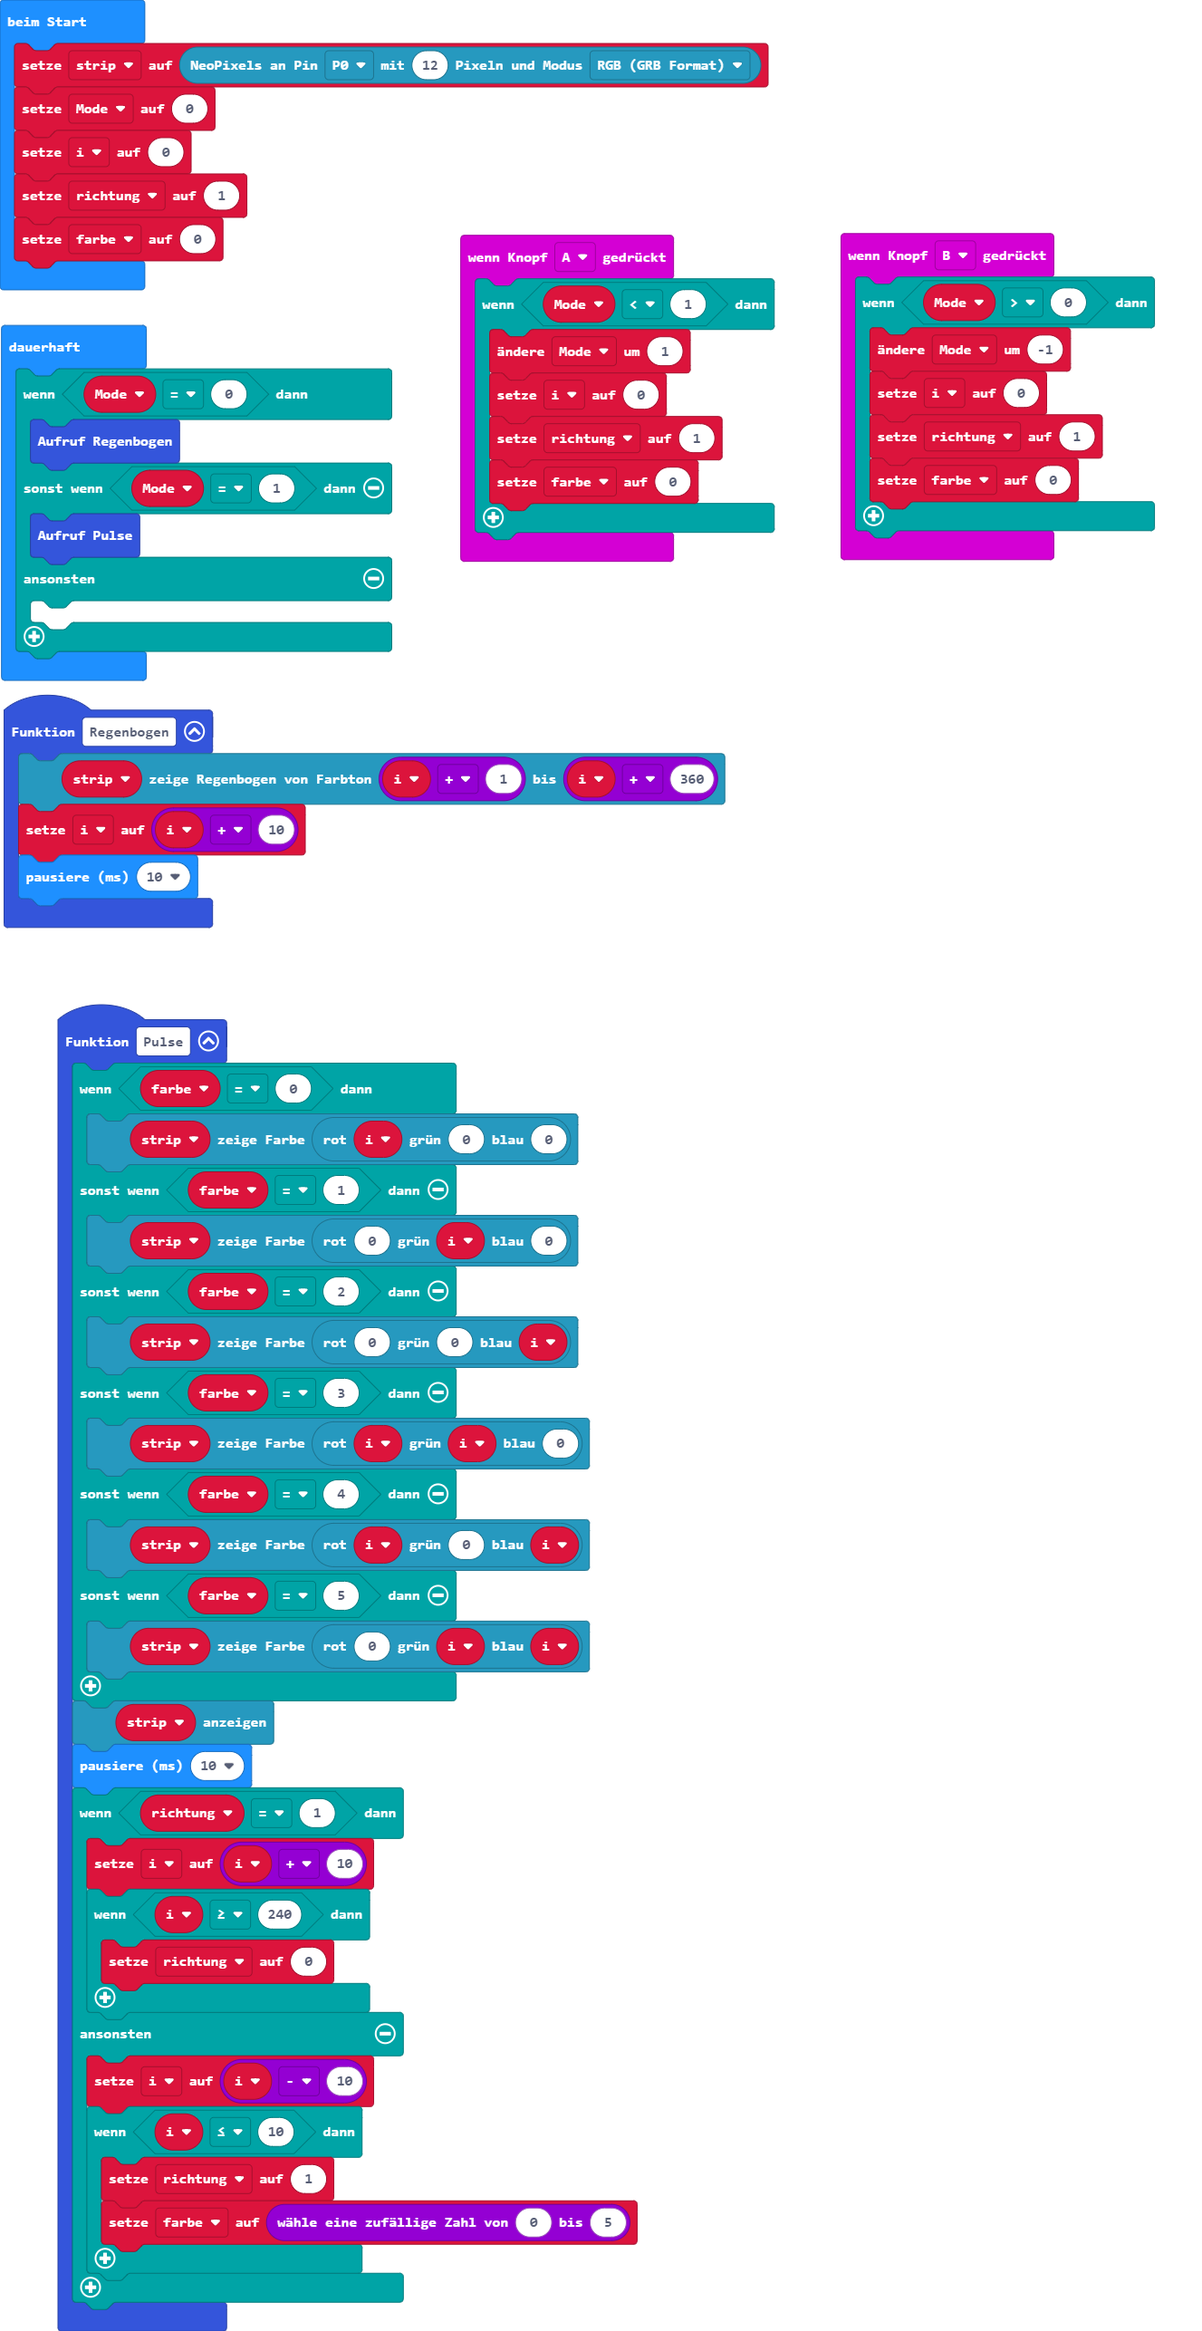
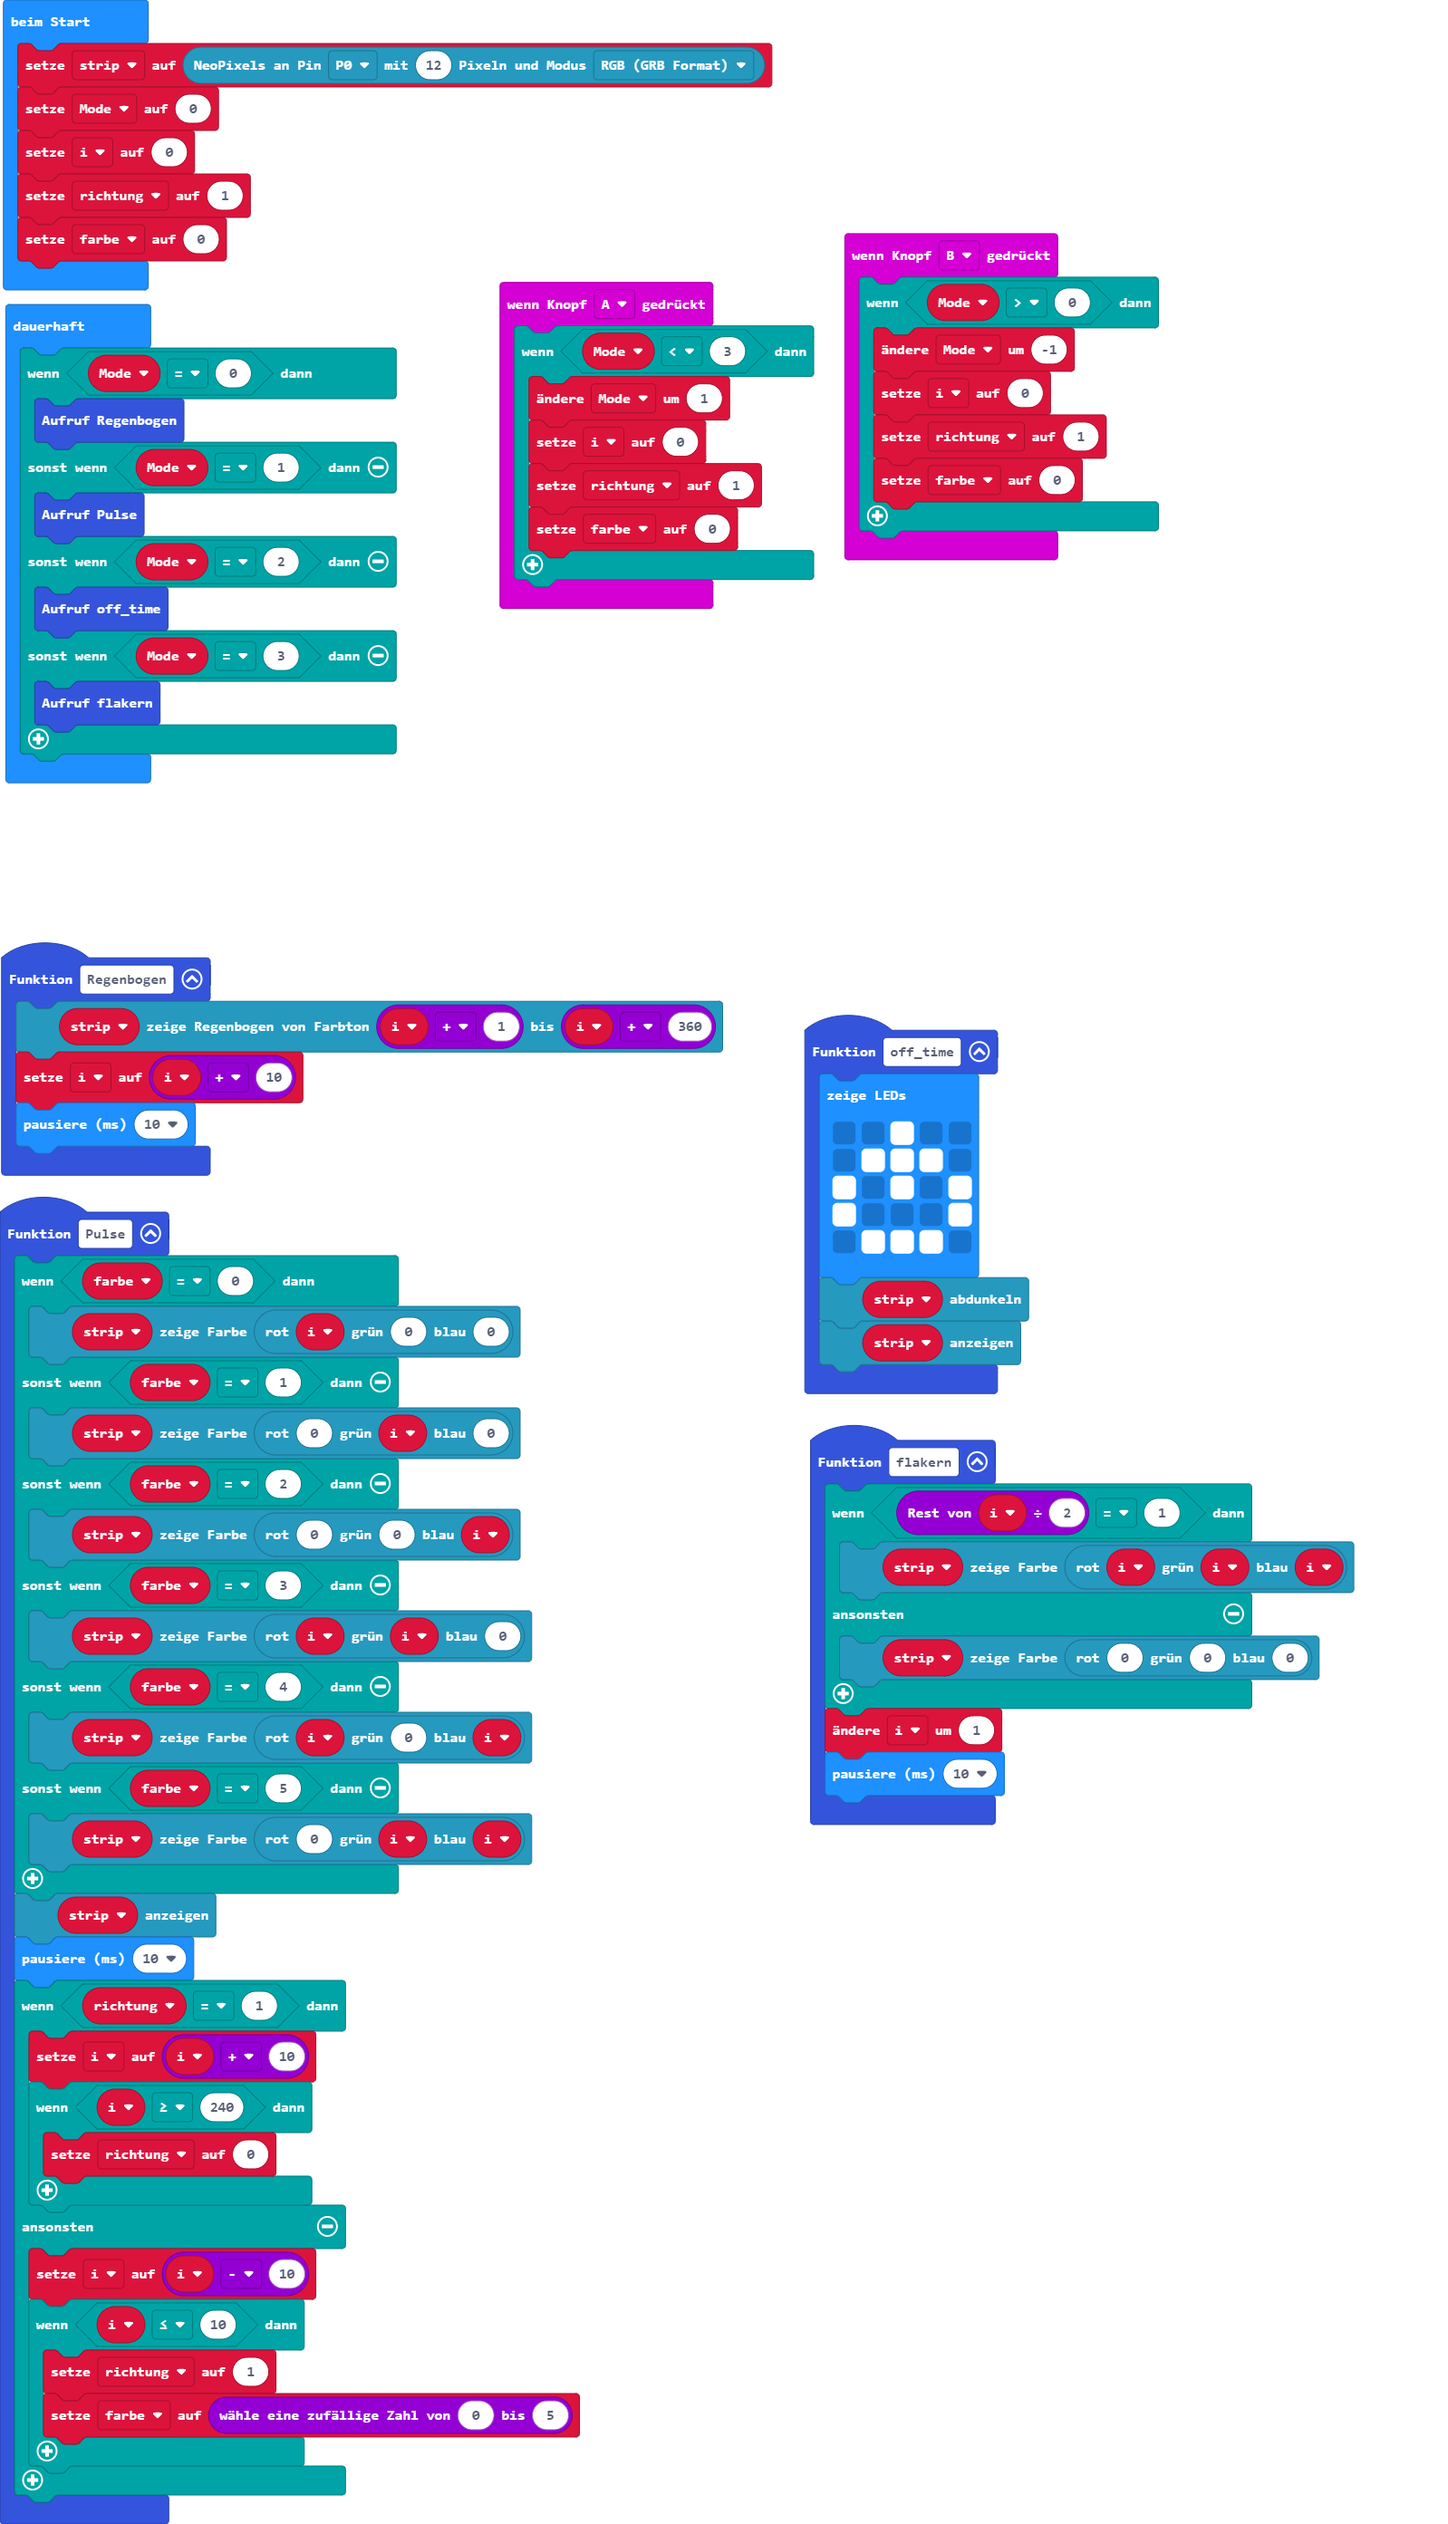
flickering

diff --git a/main.ts b/main.ts
@@ -1,5 +1,5 @@
 input.onButtonPressed(Button.A, function () {
-    if (Mode < 1) {
+    if (Mode < 3) {
         Mode += 1
         i = 0
         richtung = 1
@@ -48,6 +48,26 @@ input.onButtonPressed(Button.B, function () {
         farbe = 0
     }
 })
+function off_time () {
+    basic.showLeds(`
+        . . # . .
+        . # # # .
+        # . # . #
+        # . . . #
+        . # # # .
+        `)
+    strip.easeBrightness()
+    strip.show()
+}
+function flakern () {
+    if (i % 2 == 1) {
+        strip.showColor(neopixel.rgb(i, i, i))
+    } else {
+        strip.showColor(neopixel.rgb(0, 0, 0))
+    }
+    i += 1
+    basic.pause(10)
+}
 let farbe = 0
 let richtung = 0
 let i = 0
@@ -63,7 +83,9 @@ basic.forever(function () {
         Regenbogen()
     } else if (Mode == 1) {
         Pulse()
-    } else {
-    	
+    } else if (Mode == 2) {
+        off_time()
+    } else if (Mode == 3) {
+        flakern()
     }
 })
